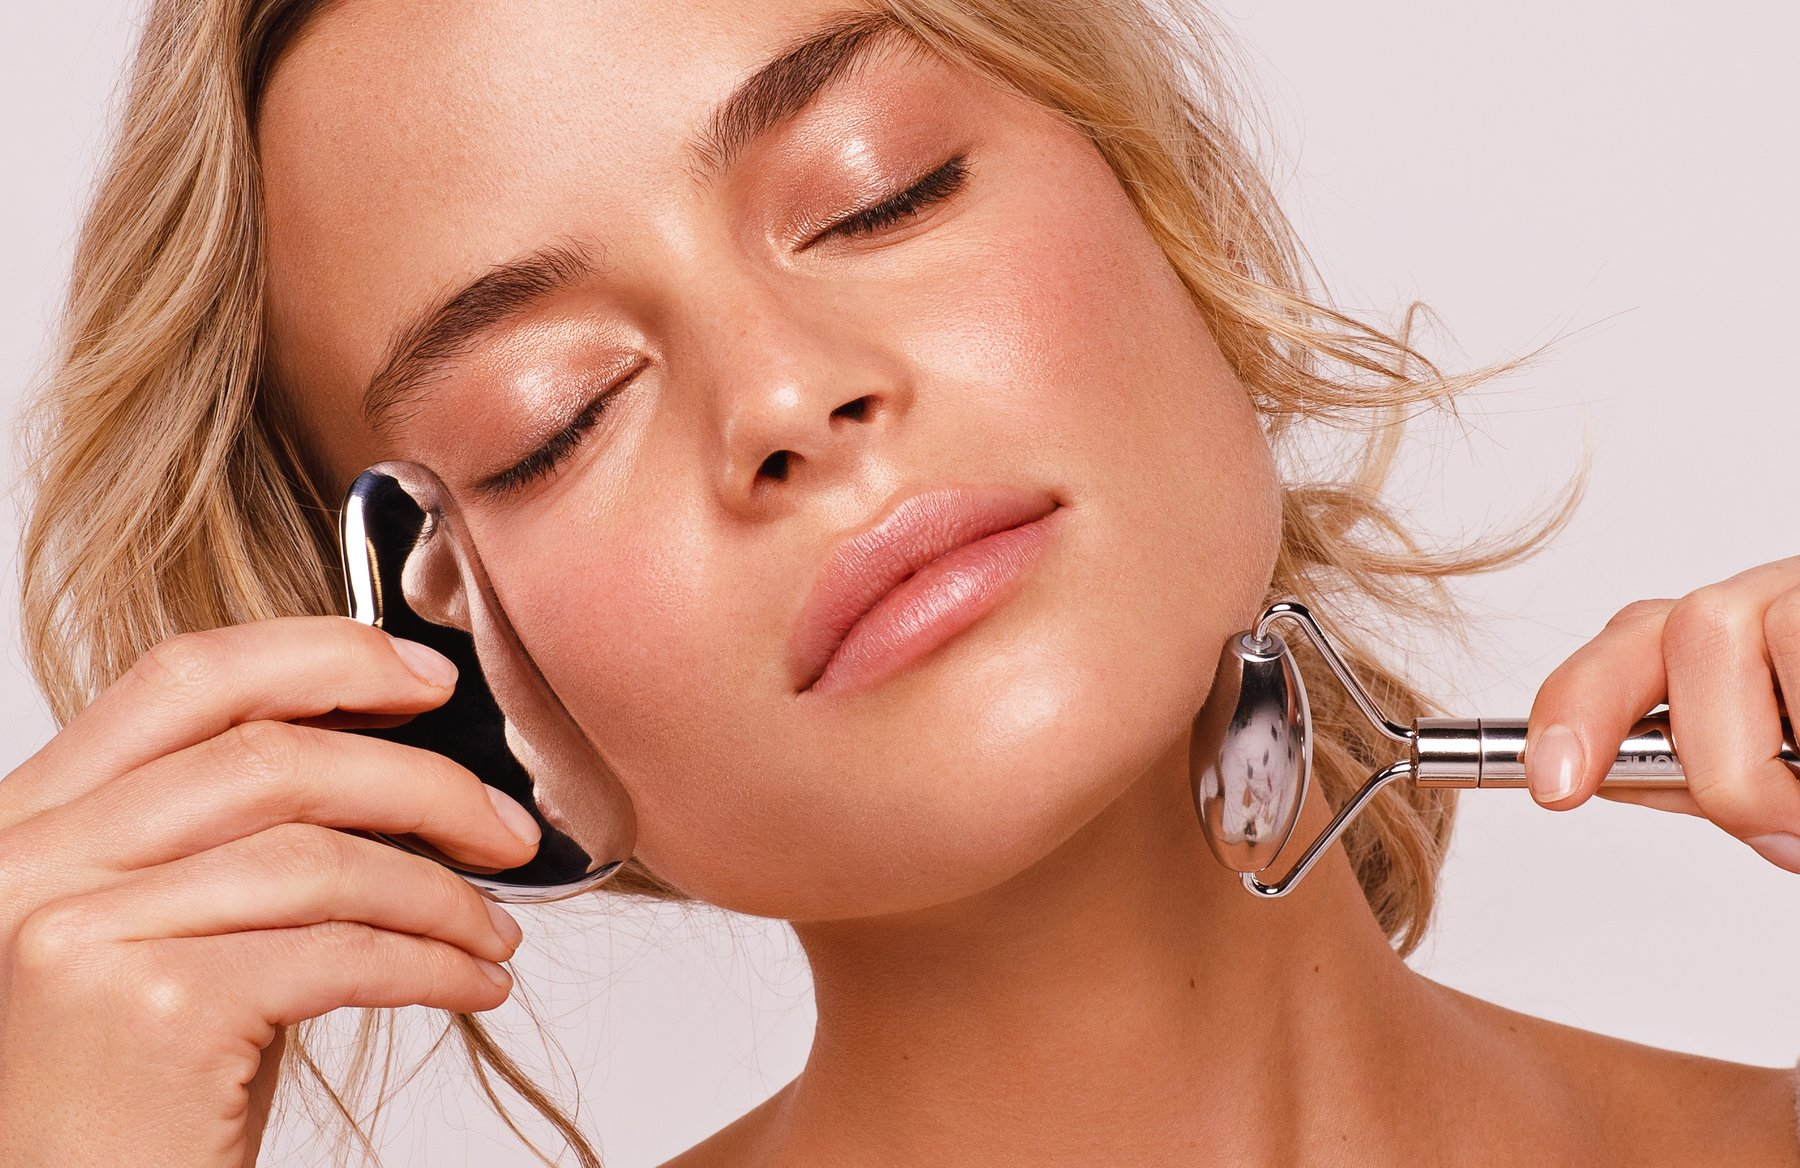
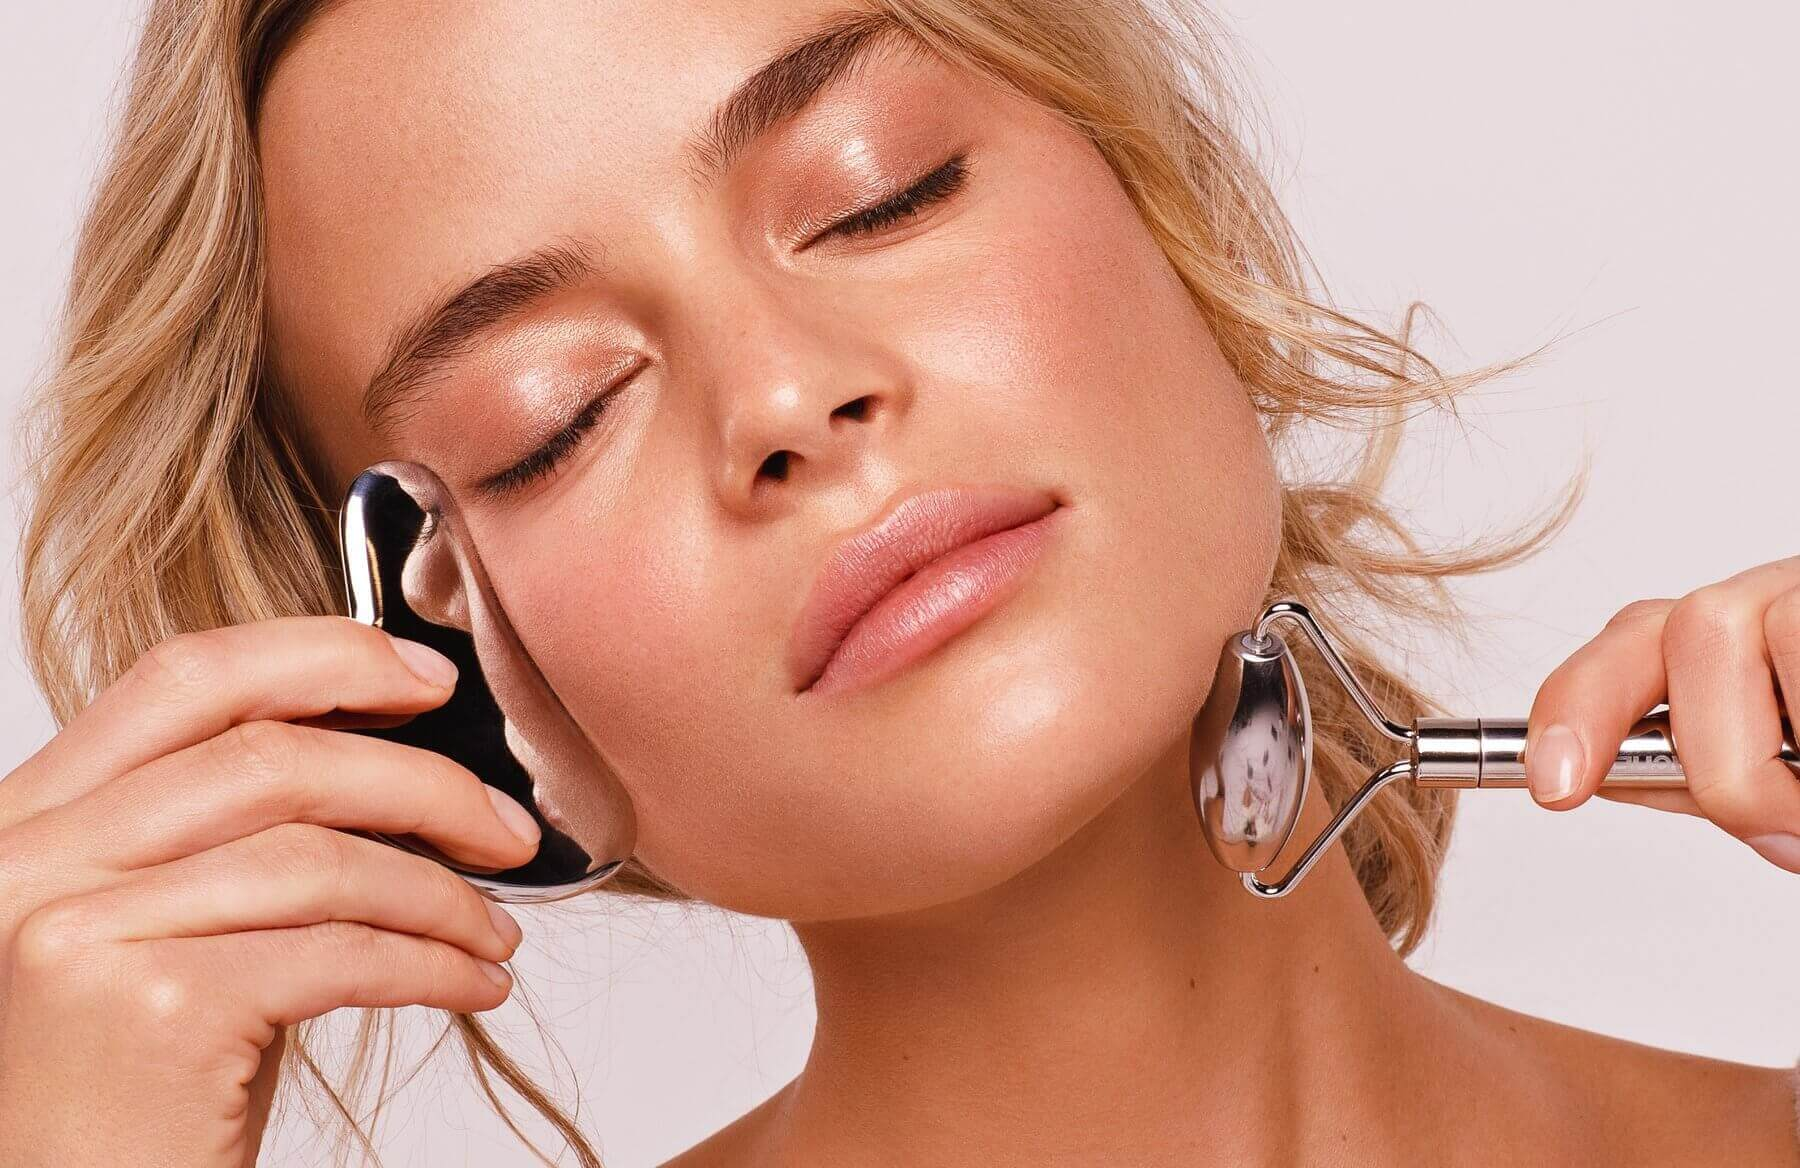
Comperss Images Size

diff --git a/src/components/Homepage/HomePromotionBannerSecond.js b/src/components/Homepage/HomePromotionBannerSecond.js
@@ -9,9 +9,9 @@ const HomePromotionBannerSecond = () => {
               <div className="bannerImg">
                 {
                   window.innerWidth > 767 ?
-                  <img src="https://f.shgcdn.com/3225eda2-5406-4b77-8506-bef2b486e678/" alt="sacheu"/>
+                  <img src="https://cdn.shopify.com/s/files/1/0582/4154/8474/files/Capture0039-Edit_no_cotton.jpg?v=1628146700" alt="sacheu"/>
                   :
-                  <img src="https://f.shgcdn.com/71aecca4-a7d6-47fc-b199-2dfea57c9902/" alt="sacheu"/>
+                  <img src="https://cdn.shopify.com/s/files/1/0582/4154/8474/files/Group_214_1.jpg?v=1628146749" alt="sacheu"/>
                 }
               </div>
               <div className="bannerInfo">
